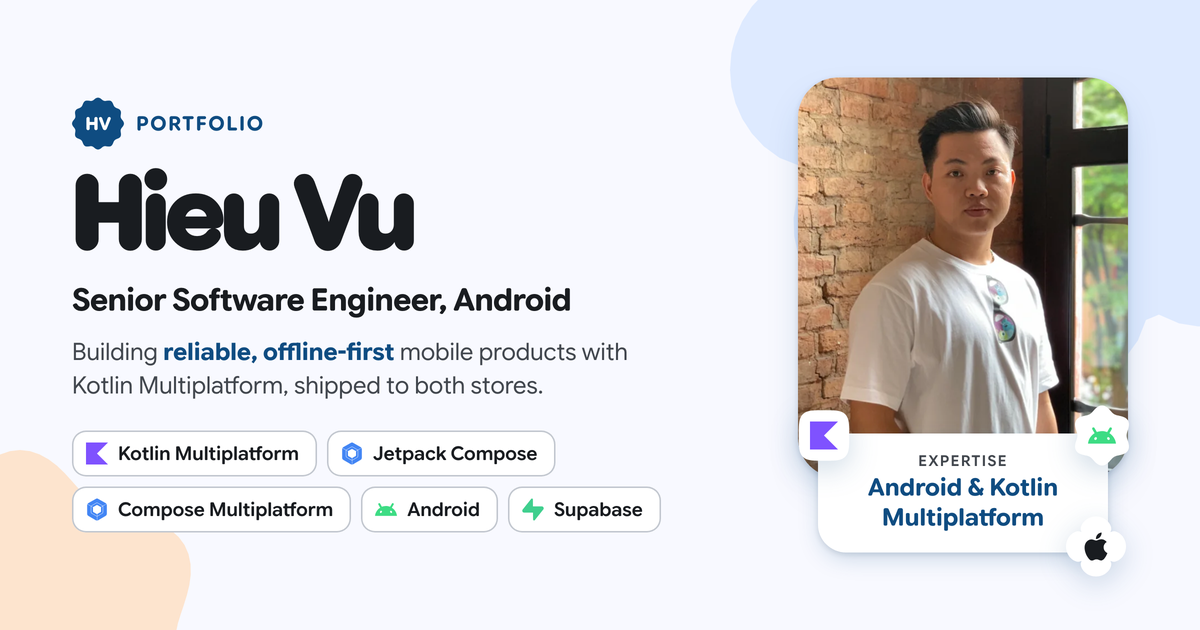
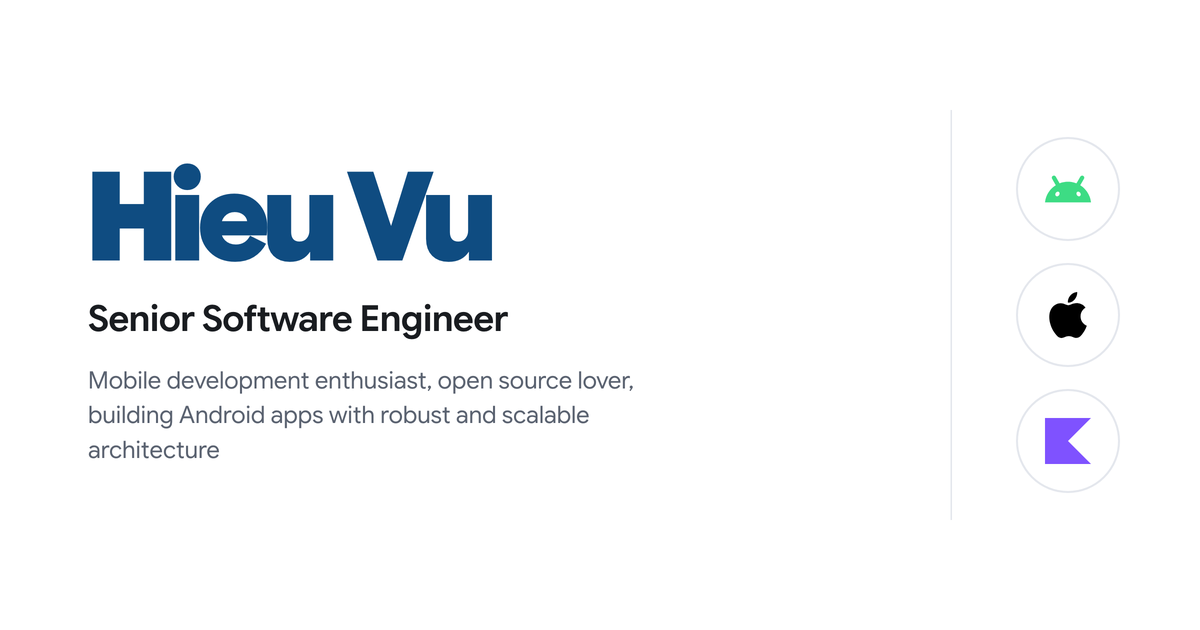
Simplify the social share card
Classy, minimal layout on white: name in Classic Blue, job title and
tagline on the left, Android, Apple and Kotlin marks on the right. No
company, photo or screenshots. Alt text updated and og:image versioned
to v=3 so platforms re-fetch it.

diff --git a/og-card.html b/og-card.html
@@ -1,7 +1,4 @@
-<!DOCTYPE html>
-<html lang="en">
-<head>
-<meta charset="UTF-8">
+<!DOCTYPE html><html><head><meta charset="UTF-8">
 <title>Social preview card</title>
 <!--
   Source for public/assets/img/og-image.png, 1200x630.
@@ -10,175 +7,36 @@
     ~/.claude/skills/social-preview-image/scripts/render.sh \
       -o public/assets/img/og-image.png og-card.html
 
-  Kept in the project root so the relative image paths below resolve.
   Content rule: name, job title and expertise only. No employer or other
-  company names.
-  Tokens mirror src/styles/theme-m3.css (Material 3 Expressive, Classic Blue
-  #0F4C81, light scheme). Shapes are the same polygons as
-  src/components/ui/shapes.ts; brand marks come from brandMarks.ts.
+  company names, no app screenshots. Classic Blue #0F4C81 on white, Google
+  Sans Flex, brand marks from src/components/ui/brandMarks.ts.
 -->
-<link rel="preconnect" href="https://fonts.googleapis.com">
-<link rel="preconnect" href="https://fonts.gstatic.com" crossorigin>
-<link href="https://fonts.googleapis.com/css2?family=Google+Sans+Flex:opsz,wght,ROND@6..144,300..900,0..100&display=swap" rel="stylesheet">
+<link href="https://fonts.googleapis.com/css2?family=Google+Sans+Flex:opsz,wght,ROND@6..144,300..1000,0..100&display=swap" rel="stylesheet">
 <style>
-    :root {
-        --primary: #0f4c81;
-        --on-primary: #ffffff;
-        --primary-container: #d3e4ff;
-        --on-primary-container: #001c38;
-        --secondary-container: #d7e3f7;
-        --on-secondary-container: #101c2b;
-        --tertiary-container: #ffdcbe;
-        --surface: #f8f9ff;
-        --surface-lowest: #ffffff;
-        --on-surface: #191c20;
-        --on-surface-variant: #42474e;
+:root{--p:#0f4c81;--pc:#d3e4ff;--ink:#191c20;--muted:#5a6270;--line:#e4e7ed;--f:'Google Sans Flex',system-ui,sans-serif}
+*{margin:0;padding:0;box-sizing:border-box}
+html,body{width:1200px;height:630px;overflow:hidden}
+body{position:relative;background:#fff;font-family:var(--f);color:var(--ink);-webkit-font-smoothing:antialiased}
+.name{font-weight:800;color:var(--p);letter-spacing:-.035em;line-height:.9;font-variation-settings:'ROND' 0,'opsz' 144}
+.title{font-weight:600;letter-spacing:-.01em;color:var(--ink)}
+.tag{color:var(--muted);font-weight:400;line-height:1.45}
+.mono{display:grid;place-items:center;background:var(--p);color:#fff;font-weight:800;clip-path:polygon(50.00% 0.00%, 52.59% 0.52%, 55.05% 1.91%, 57.33% 3.69%, 59.50% 5.31%, 61.71% 6.30%, 64.12% 6.54%, 66.80% 6.23%, 69.67% 5.83%, 72.49% 5.85%, 75.00% 6.70%, 76.98% 8.45%, 78.42% 10.88%, 79.50% 13.56%, 80.57% 16.04%, 81.99% 18.01%, 83.96% 19.43%, 86.44% 20.50%, 89.12% 21.58%, 91.55% 23.02%, 93.30% 25.00%, 94.15% 27.51%, 94.17% 30.33%, 93.77% 33.20%, 93.46% 35.88%, 93.70% 38.29%, 94.69% 40.50%, 96.31% 42.67%, 98.09% 44.95%, 99.48% 47.41%, 100.00% 50.00%, 99.48% 52.59%, 98.09% 55.05%, 96.31% 57.33%, 94.69% 59.50%, 93.70% 61.71%, 93.46% 64.12%, 93.77% 66.80%, 94.17% 69.67%, 94.15% 72.49%, 93.30% 75.00%, 91.55% 76.98%, 89.12% 78.42%, 86.44% 79.50%, 83.96% 80.57%, 81.99% 81.99%, 80.57% 83.96%, 79.50% 86.44%, 78.42% 89.12%, 76.98% 91.55%, 75.00% 93.30%, 72.49% 94.15%, 69.67% 94.17%, 66.80% 93.77%, 64.12% 93.46%, 61.71% 93.70%, 59.50% 94.69%, 57.33% 96.31%, 55.05% 98.09%, 52.59% 99.48%, 50.00% 100.00%, 47.41% 99.48%, 44.95% 98.09%, 42.67% 96.31%, 40.50% 94.69%, 38.29% 93.70%, 35.88% 93.46%, 33.20% 93.77%, 30.33% 94.17%, 27.51% 94.15%, 25.00% 93.30%, 23.02% 91.55%, 21.58% 89.12%, 20.50% 86.44%, 19.43% 83.96%, 18.01% 81.99%, 16.04% 80.57%, 13.56% 79.50%, 10.88% 78.42%, 8.45% 76.98%, 6.70% 75.00%, 5.85% 72.49%, 5.83% 69.67%, 6.23% 66.80%, 6.54% 64.12%, 6.30% 61.71%, 5.31% 59.50%, 3.69% 57.33%, 1.91% 55.05%, 0.52% 52.59%, 0.00% 50.00%, 0.52% 47.41%, 1.91% 44.95%, 3.69% 42.67%, 5.31% 40.50%, 6.30% 38.29%, 6.54% 35.88%, 6.23% 33.20%, 5.83% 30.33%, 5.85% 27.51%, 6.70% 25.00%, 8.45% 23.02%, 10.88% 21.58%, 13.56% 20.50%, 16.04% 19.43%, 18.01% 18.01%, 19.43% 16.04%, 20.50% 13.56%, 21.58% 10.88%, 23.02% 8.45%, 25.00% 6.70%, 27.51% 5.85%, 30.33% 5.83%, 33.20% 6.23%, 35.88% 6.54%, 38.29% 6.30%, 40.50% 5.31%, 42.67% 3.69%, 44.95% 1.91%, 47.41% 0.52%)}
+svg{display:block}
+.marks{display:flex;align-items:center;gap:26px}
+.marks svg{width:34px;height:34px}
+.marks i{width:1.5px;height:28px;background:var(--line)}
 
-        --font: 'Google Sans Flex', 'Google Sans', system-ui, sans-serif;
-        --w: 1200px;
-        --h: 630px;
-    }
+body{display:flex;align-items:center;padding:0 80px 0 88px}
+.copy{flex:1;padding-right:64px}
+.name{font-size:124px}
+.title{font-size:36px;margin-top:22px}
+.tag{font-size:24px;margin-top:22px;max-width:620px}
+.div{width:1.5px;align-self:stretch;margin:110px 0;background:var(--line)}
+.badges{display:flex;flex-direction:column;gap:22px;padding-left:64px}
+.b{width:104px;height:104px;border-radius:50%;border:2px solid var(--line);display:grid;place-items:center}
+.b svg{width:46px;height:46px}
 
-    * { margin: 0; padding: 0; box-sizing: border-box; }
-    html, body { width: var(--w); height: var(--h); overflow: hidden; }
-
-    body {
-        position: relative;
-        display: flex;
-        align-items: center;
-        gap: 56px;
-        padding: 56px 72px 56px 72px;
-        background: var(--surface);
-        font-family: var(--font);
-        color: var(--on-surface);
-        -webkit-font-smoothing: antialiased;
-    }
-
-    /* Flat M3 shapes, same as the hero backdrop. Bled off the edges is fine
-       here: they're decoration, nothing readable sits on them. */
-    .deco { position: absolute; pointer-events: none; }
-    .deco-a {
-        width: 640px; height: 640px; right: -170px; top: -250px;
-        background: var(--primary-container); opacity: .7;
-        clip-path: polygon(50.00% 0.00%, 52.61% 0.21%, 55.17% 0.85%, 57.62% 1.91%, 59.91% 3.40%, 61.97% 5.32%, 63.73% 7.74%, 64.99% 10.94%, 67.02% 11.78%, 70.17% 10.41%, 73.13% 9.94%, 75.95% 10.04%, 78.62% 10.61%, 81.10% 11.59%, 83.36% 12.95%, 85.36% 14.64%, 87.05% 16.64%, 88.41% 18.90%, 89.39% 21.38%, 89.96% 24.05%, 90.06% 26.87%, 89.59% 29.83%, 88.22% 32.98%, 89.06% 35.01%, 92.26% 36.27%, 94.68% 38.03%, 96.60% 40.09%, 98.09% 42.38%, 99.15% 44.83%, 99.79% 47.39%, 100.00% 50.00%, 99.79% 52.61%, 99.15% 55.17%, 98.09% 57.62%, 96.60% 59.91%, 94.68% 61.97%, 92.26% 63.73%, 89.06% 64.99%, 88.22% 67.02%, 89.59% 70.17%, 90.06% 73.13%, 89.96% 75.95%, 89.39% 78.62%, 88.41% 81.10%, 87.05% 83.36%, 85.36% 85.36%, 83.36% 87.05%, 81.10% 88.41%, 78.62% 89.39%, 75.95% 89.96%, 73.13% 90.06%, 70.17% 89.59%, 67.02% 88.22%, 64.99% 89.06%, 63.73% 92.26%, 61.97% 94.68%, 59.91% 96.60%, 57.62% 98.09%, 55.17% 99.15%, 52.61% 99.79%, 50.00% 100.00%, 47.39% 99.79%, 44.83% 99.15%, 42.38% 98.09%, 40.09% 96.60%, 38.03% 94.68%, 36.27% 92.26%, 35.01% 89.06%, 32.98% 88.22%, 29.83% 89.59%, 26.87% 90.06%, 24.05% 89.96%, 21.38% 89.39%, 18.90% 88.41%, 16.64% 87.05%, 14.64% 85.36%, 12.95% 83.36%, 11.59% 81.10%, 10.61% 78.62%, 10.04% 75.95%, 9.94% 73.13%, 10.41% 70.17%, 11.78% 67.02%, 10.94% 64.99%, 7.74% 63.73%, 5.32% 61.97%, 3.40% 59.91%, 1.91% 57.62%, 0.85% 55.17%, 0.21% 52.61%, 0.00% 50.00%, 0.21% 47.39%, 0.85% 44.83%, 1.91% 42.38%, 3.40% 40.09%, 5.32% 38.03%, 7.74% 36.27%, 10.94% 35.01%, 11.78% 32.98%, 10.41% 29.83%, 9.94% 26.87%, 10.04% 24.05%, 10.61% 21.38%, 11.59% 18.90%, 12.95% 16.64%, 14.64% 14.64%, 16.64% 12.95%, 18.90% 11.59%, 21.38% 10.61%, 24.05% 10.04%, 26.87% 9.94%, 29.83% 10.41%, 32.98% 11.78%, 35.01% 10.94%, 36.27% 7.74%, 38.03% 5.32%, 40.09% 3.40%, 42.38% 1.91%, 44.83% 0.85%, 47.39% 0.21%);
-    }
-    .deco-b {
-        width: 380px; height: 380px; left: -170px; bottom: -200px;
-        background: var(--tertiary-container); opacity: .75;
-        clip-path: polygon(50.00% 0.00%, 52.61% 0.29%, 55.14% 1.14%, 57.53% 2.47%, 59.74% 4.16%, 61.76% 6.09%, 63.61% 8.11%, 65.33% 10.06%, 66.99% 11.83%, 68.67% 13.35%, 70.45% 14.57%, 72.40% 15.50%, 74.56% 16.20%, 76.92% 16.75%, 79.48% 17.26%, 82.14% 17.86%, 84.82% 18.65%, 87.40% 19.71%, 89.75% 21.12%, 91.75% 22.89%, 93.30% 25.00%, 94.35% 27.40%, 94.88% 30.02%, 94.93% 32.75%, 94.57% 35.52%, 93.91% 38.24%, 93.09% 40.84%, 92.26% 43.31%, 91.55% 45.63%, 91.08% 47.85%, 90.91% 50.00%, 91.08% 52.15%, 91.55% 54.37%, 92.26% 56.69%, 93.09% 59.16%, 93.91% 61.76%, 94.57% 64.48%, 94.93% 67.25%, 94.88% 69.98%, 94.35% 72.60%, 93.30% 75.00%, 91.75% 77.11%, 89.75% 78.88%, 87.40% 80.29%, 84.82% 81.35%, 82.14% 82.14%, 79.48% 82.74%, 76.92% 83.25%, 74.56% 83.80%, 72.40% 84.50%, 70.45% 85.43%, 68.67% 86.65%, 66.99% 88.17%, 65.33% 89.94%, 63.61% 91.89%, 61.76% 93.91%, 59.74% 95.84%, 57.53% 97.53%, 55.14% 98.86%, 52.61% 99.71%, 50.00% 100.00%, 47.39% 99.71%, 44.86% 98.86%, 42.47% 97.53%, 40.26% 95.84%, 38.24% 93.91%, 36.39% 91.89%, 34.67% 89.94%, 33.01% 88.17%, 31.33% 86.65%, 29.55% 85.43%, 27.60% 84.50%, 25.44% 83.80%, 23.08% 83.25%, 20.52% 82.74%, 17.86% 82.14%, 15.18% 81.35%, 12.60% 80.29%, 10.25% 78.88%, 8.25% 77.11%, 6.70% 75.00%, 5.65% 72.60%, 5.12% 69.98%, 5.07% 67.25%, 5.43% 64.48%, 6.09% 61.76%, 6.91% 59.16%, 7.74% 56.69%, 8.45% 54.37%, 8.92% 52.15%, 9.09% 50.00%, 8.92% 47.85%, 8.45% 45.63%, 7.74% 43.31%, 6.91% 40.84%, 6.09% 38.24%, 5.43% 35.52%, 5.07% 32.75%, 5.12% 30.02%, 5.65% 27.40%, 6.70% 25.00%, 8.25% 22.89%, 10.25% 21.12%, 12.60% 19.71%, 15.18% 18.65%, 17.86% 17.86%, 20.52% 17.26%, 23.08% 16.75%, 25.44% 16.20%, 27.60% 15.50%, 29.55% 14.57%, 31.33% 13.35%, 33.01% 11.83%, 34.67% 10.06%, 36.39% 8.11%, 38.24% 6.09%, 40.26% 4.16%, 42.47% 2.47%, 44.86% 1.14%, 47.39% 0.29%);
-    }
-
-    /* ---------- left: who and what ---------- */
-    .copy { position: relative; z-index: 1; flex: 1; min-width: 0; }
-
-    .eyebrow {
-        display: flex; align-items: center; gap: 12px;
-        font-weight: 700; font-size: 20px; letter-spacing: .08em;
-        text-transform: uppercase; color: var(--primary);
-        font-variation-settings: 'ROND' 100;
-        margin-bottom: 18px;
-    }
-    .eyebrow .mono {
-        width: 52px; height: 52px; display: grid; place-items: center;
-        background: var(--primary); color: var(--on-primary);
-        clip-path: polygon(50.00% 0.00%, 52.59% 0.52%, 55.05% 1.91%, 57.33% 3.69%, 59.50% 5.31%, 61.71% 6.30%, 64.12% 6.54%, 66.80% 6.23%, 69.67% 5.83%, 72.49% 5.85%, 75.00% 6.70%, 76.98% 8.45%, 78.42% 10.88%, 79.50% 13.56%, 80.57% 16.04%, 81.99% 18.01%, 83.96% 19.43%, 86.44% 20.50%, 89.12% 21.58%, 91.55% 23.02%, 93.30% 25.00%, 94.15% 27.51%, 94.17% 30.33%, 93.77% 33.20%, 93.46% 35.88%, 93.70% 38.29%, 94.69% 40.50%, 96.31% 42.67%, 98.09% 44.95%, 99.48% 47.41%, 100.00% 50.00%, 99.48% 52.59%, 98.09% 55.05%, 96.31% 57.33%, 94.69% 59.50%, 93.70% 61.71%, 93.46% 64.12%, 93.77% 66.80%, 94.17% 69.67%, 94.15% 72.49%, 93.30% 75.00%, 91.55% 76.98%, 89.12% 78.42%, 86.44% 79.50%, 83.96% 80.57%, 81.99% 81.99%, 80.57% 83.96%, 79.50% 86.44%, 78.42% 89.12%, 76.98% 91.55%, 75.00% 93.30%, 72.49% 94.15%, 69.67% 94.17%, 66.80% 93.77%, 64.12% 93.46%, 61.71% 93.70%, 59.50% 94.69%, 57.33% 96.31%, 55.05% 98.09%, 52.59% 99.48%, 50.00% 100.00%, 47.41% 99.48%, 44.95% 98.09%, 42.67% 96.31%, 40.50% 94.69%, 38.29% 93.70%, 35.88% 93.46%, 33.20% 93.77%, 30.33% 94.17%, 27.51% 94.15%, 25.00% 93.30%, 23.02% 91.55%, 21.58% 89.12%, 20.50% 86.44%, 19.43% 83.96%, 18.01% 81.99%, 16.04% 80.57%, 13.56% 79.50%, 10.88% 78.42%, 8.45% 76.98%, 6.70% 75.00%, 5.85% 72.49%, 5.83% 69.67%, 6.23% 66.80%, 6.54% 64.12%, 6.30% 61.71%, 5.31% 59.50%, 3.69% 57.33%, 1.91% 55.05%, 0.52% 52.59%, 0.00% 50.00%, 0.52% 47.41%, 1.91% 44.95%, 3.69% 42.67%, 5.31% 40.50%, 6.30% 38.29%, 6.54% 35.88%, 6.23% 33.20%, 5.83% 30.33%, 5.85% 27.51%, 6.70% 25.00%, 8.45% 23.02%, 10.88% 21.58%, 13.56% 20.50%, 16.04% 19.43%, 18.01% 18.01%, 19.43% 16.04%, 20.50% 13.56%, 21.58% 10.88%, 23.02% 8.45%, 25.00% 6.70%, 27.51% 5.85%, 30.33% 5.83%, 33.20% 6.23%, 35.88% 6.54%, 38.29% 6.30%, 40.50% 5.31%, 42.67% 3.69%, 44.95% 1.91%, 47.41% 0.52%);
-        font-size: 18px; font-weight: 800; letter-spacing: -.02em;
-    }
-
-    h1 {
-        font-weight: 800;
-        font-size: 104px;
-        line-height: .9;
-        letter-spacing: -.03em;
-        font-variation-settings: 'ROND' 100, 'opsz' 144;
-        margin-bottom: 22px;
-    }
-
-    .title {
-        display: inline-flex; align-items: center; gap: 14px;
-        font-weight: 700; font-size: 31px; line-height: 1.1;
-        letter-spacing: -.015em; white-space: nowrap;
-        font-variation-settings: 'ROND' 60;
-        margin-bottom: 18px;
-    }
-
-    .lede {
-        font-size: 24px; line-height: 1.4; color: var(--on-surface-variant);
-        max-width: 620px; margin-bottom: 28px;
-    }
-    .lede strong { color: var(--primary); font-weight: 700; }
-
-    .chips { display: flex; flex-wrap: wrap; gap: 10px; max-width: 660px; }
-    .chip {
-        display: flex; align-items: center; gap: 10px;
-        height: 46px; padding: 0 18px 0 14px;
-        border-radius: 14px;
-        background: var(--surface-lowest);
-        box-shadow: inset 0 0 0 1.5px #c2c7cf;
-        font-weight: 600; font-size: 19px; color: var(--on-surface);
-        font-variation-settings: 'ROND' 40;
-    }
-    .chip svg { width: 22px; height: 22px; flex-shrink: 0; }
-
-    /* ---------- right: portrait + name card ---------- */
-    .art { position: relative; z-index: 1; width: 330px; flex-shrink: 0; }
-    .photo {
-        width: 330px; height: 400px; border-radius: 40px; overflow: hidden;
-        background: #e6e8ee;
-        box-shadow: 0 2px 6px rgba(15,30,55,.14), 0 18px 40px -12px rgba(15,76,129,.28);
-    }
-    .photo img { width: 100%; height: 100%; object-fit: cover; display: block; }
-
-    .card {
-        position: relative;
-        width: 290px; margin: -44px auto 0;
-        padding: 18px 20px 20px; border-radius: 28px;
-        background: var(--surface-lowest); text-align: center;
-        box-shadow: 0 8px 24px -4px rgba(15,76,129,.22), 0 2px 6px rgba(15,30,55,.12);
-    }
-    .card .k { font-weight: 600; font-size: 15px; letter-spacing: .08em; text-transform: uppercase; color: var(--on-surface-variant); }
-    .card .n { font-weight: 700; font-size: 24px; font-variation-settings: 'ROND' 60; color: var(--primary); margin-top: 2px; }
-    .card .r { font-weight: 600; font-size: 18px; color: var(--primary); margin-top: 2px; }
-
-    .tile { position: absolute; width: 60px; height: 60px;
-             filter: drop-shadow(0 8px 14px rgba(15,76,129,.2)); }
-    .tile-shape { width: 100%; height: 100%; display: grid; place-items: center;
-                   background: var(--surface-lowest); }
-    .tile svg { width: 28px; height: 28px; }
-    .t1 { left: -24px; top: -28px; }
-    .t2 { right: -24px; top: -28px; }
-    .t3 { right: -18px; bottom: -24px; }
-</style>
-</head>
-<body>
-
-<div class="deco deco-a"></div>
-<div class="deco deco-b"></div>
-
-<div class="copy">
-    <div class="eyebrow"><div class="mono">HV</div>Portfolio</div>
-    <h1>Hieu Vu</h1>
-    <div class="title">Senior Software Engineer, Android</div>
-    <p class="lede">Building <strong>reliable, offline-first</strong> mobile products with Kotlin Multiplatform, shipped to both stores.</p>
-    <div class="chips">
-        <div class="chip"><svg viewBox="0 0 24 24" fill="#7F52FF" aria-hidden="true"><path d="M24 24H0V0h24L12 12Z"/></svg>Kotlin Multiplatform</div>
-        <div class="chip"><svg viewBox="0 0 24 24" fill="#4285F4" aria-hidden="true"><path d="M12.135.003a2.577 2.577 0 0 0-1.42.344L2.55 5.06a2.577 2.577 0 0 0-.953.967l3.957 2.17a1.765 1.765 0 0 1 .603-.588l4.951-2.86a1.761 1.761 0 0 1 1.76 0l4.951 2.86a1.753 1.753 0 0 1 .526.46l3.921-2.265a2.577 2.577 0 0 0-.816-.744L13.291.347a2.577 2.577 0 0 0-1.152-.34Zm-.145 4.912a1.36 1.36 0 0 0-.68.182L6.36 7.953a1.345 1.345 0 0 0-.454.435l1.92 1.055a1.05 1.05 0 0 1 .31-.275l3.34-1.928a1.054 1.054 0 0 1 1.051 0l3.336 1.928a1.066 1.066 0 0 1 .238.199l.018-.01-.002-.002 1.877-1.08a1.353 1.353 0 0 0-.373-.322l-4.95-2.86a1.357 1.357 0 0 0-.68-.178Zm10.432 1.149-3.92 2.26a1.757 1.757 0 0 1 .2.812v5.715c0 .627-.332 1.21-.88 1.528l-4.95 2.86a1.761 1.761 0 0 1-.64.214v4.524a2.577 2.577 0 0 0 1.059-.313l8.162-4.713a2.577 2.577 0 0 0 1.289-2.23V7.297a2.577 2.577 0 0 0-.318-1.228Zm-20.937.238a2.577 2.577 0 0 0-.227.99v9.43c0 .918.491 1.767 1.293 2.229l8.162 4.713a2.57 2.57 0 0 0 1.225.336v-4.531a1.761 1.761 0 0 1-.833-.235L6.156 16.38a1.765 1.765 0 0 1-.877-1.528V9.136a1.776 1.776 0 0 1 .131-.676Zm16.67 2.223-1.89 1.092a1.058 1.058 0 0 1 .124.46v3.856c0 .378-.2.72-.526.907l-3.336 1.93a1.04 1.04 0 0 1-.295.107v2.17c.152-.027.304-.078.44-.157l4.949-2.859a1.36 1.36 0 0 0 .68-1.18V9.136a1.36 1.36 0 0 0-.147-.607Zm-12.387.13a1.36 1.36 0 0 0-.088.481v5.715a1.36 1.36 0 0 0 .68 1.18l4.95 2.86c.194.112.412.166.627.177v-2.174a1.054 1.054 0 0 1-.46-.123L8.14 14.843a1.054 1.054 0 0 1-.532-.908v-3.853a.99.99 0 0 1 .077-.38l-.034-.013z"/></svg>Jetpack Compose</div>
-        <div class="chip"><svg viewBox="0 0 24 24" fill="#4285F4" aria-hidden="true"><path d="M12.135.003a2.577 2.577 0 0 0-1.42.344L2.55 5.06a2.577 2.577 0 0 0-.953.967l3.957 2.17a1.765 1.765 0 0 1 .603-.588l4.951-2.86a1.761 1.761 0 0 1 1.76 0l4.951 2.86a1.753 1.753 0 0 1 .526.46l3.921-2.265a2.577 2.577 0 0 0-.816-.744L13.291.347a2.577 2.577 0 0 0-1.152-.34Zm-.145 4.912a1.36 1.36 0 0 0-.68.182L6.36 7.953a1.345 1.345 0 0 0-.454.435l1.92 1.055a1.05 1.05 0 0 1 .31-.275l3.34-1.928a1.054 1.054 0 0 1 1.051 0l3.336 1.928a1.066 1.066 0 0 1 .238.199l.018-.01-.002-.002 1.877-1.08a1.353 1.353 0 0 0-.373-.322l-4.95-2.86a1.357 1.357 0 0 0-.68-.178Zm10.432 1.149-3.92 2.26a1.757 1.757 0 0 1 .2.812v5.715c0 .627-.332 1.21-.88 1.528l-4.95 2.86a1.761 1.761 0 0 1-.64.214v4.524a2.577 2.577 0 0 0 1.059-.313l8.162-4.713a2.577 2.577 0 0 0 1.289-2.23V7.297a2.577 2.577 0 0 0-.318-1.228Zm-20.937.238a2.577 2.577 0 0 0-.227.99v9.43c0 .918.491 1.767 1.293 2.229l8.162 4.713a2.57 2.57 0 0 0 1.225.336v-4.531a1.761 1.761 0 0 1-.833-.235L6.156 16.38a1.765 1.765 0 0 1-.877-1.528V9.136a1.776 1.776 0 0 1 .131-.676Zm16.67 2.223-1.89 1.092a1.058 1.058 0 0 1 .124.46v3.856c0 .378-.2.72-.526.907l-3.336 1.93a1.04 1.04 0 0 1-.295.107v2.17c.152-.027.304-.078.44-.157l4.949-2.859a1.36 1.36 0 0 0 .68-1.18V9.136a1.36 1.36 0 0 0-.147-.607Zm-12.387.13a1.36 1.36 0 0 0-.088.481v5.715a1.36 1.36 0 0 0 .68 1.18l4.95 2.86c.194.112.412.166.627.177v-2.174a1.054 1.054 0 0 1-.46-.123L8.14 14.843a1.054 1.054 0 0 1-.532-.908v-3.853a.99.99 0 0 1 .077-.38l-.034-.013z"/></svg>Compose Multiplatform</div>
-        <div class="chip"><svg viewBox="0 0 24 24" fill="#3DDC84" aria-hidden="true"><path d="M18.4395 5.5586c-.675 1.1664-1.352 2.3318-2.0274 3.498-.0366-.0155-.0742-.0286-.1113-.043-1.8249-.6957-3.484-.8-4.42-.787-1.8551.0185-3.3544.4643-4.2597.8203-.084-.1494-1.7526-3.021-2.0215-3.4864a1.1451 1.1451 0 0 0-.1406-.1914c-.3312-.364-.9054-.4859-1.379-.203-.475.282-.7136.9361-.3886 1.5019 1.9466 3.3696-.0966-.2158 1.9473 3.3593.0172.031-.4946.2642-1.3926 1.0177C2.8987 12.176.452 14.772 0 18.9902h24c-.119-1.1108-.3686-2.099-.7461-3.0683-.7438-1.9118-1.8435-3.2928-2.7402-4.1836a12.1048 12.1048 0 0 0-2.1309-1.6875c.6594-1.122 1.312-2.2559 1.9649-3.3848.2077-.3615.1886-.7956-.0079-1.1191a1.1001 1.1001 0 0 0-.8515-.5332c-.5225-.0536-.9392.3128-1.0488.5449zm-.0391 8.461c.3944.5926.324 1.3306-.1563 1.6503-.4799.3197-1.188.0985-1.582-.4941-.3944-.5927-.324-1.3307.1563-1.6504.4727-.315 1.1812-.1086 1.582.4941zM7.207 13.5273c.4803.3197.5506 1.0577.1563 1.6504-.394.5926-1.1038.8138-1.584.4941-.48-.3197-.5503-1.0577-.1563-1.6504.4008-.6021 1.1087-.8106 1.584-.4941z"/></svg>Android</div>
-        <div class="chip"><svg viewBox="0 0 24 24" fill="#3FCF8E" aria-hidden="true"><path d="M11.9 1.036c-.015-.986-1.26-1.41-1.874-.637L.764 12.05C-.33 13.427.65 15.455 2.409 15.455h9.579l.113 7.51c.014.985 1.259 1.408 1.873.636l9.262-11.653c1.093-1.375.113-3.403-1.645-3.403h-9.642z"/></svg>Supabase</div>
-    </div>
-</div>
-
-<div class="art">
-    <div class="photo"><img src="public/assets/img/profile.webp" alt=""></div>
-    <div class="card">
-        <div class="k">Expertise</div>
-        <div class="n">Android &amp; Kotlin Multiplatform</div>
-        <div class="tile t1"><div class="tile-shape" style="clip-path:polygon(50.00% 7.96%, 52.20% 7.96%, 54.42% 7.96%, 56.66% 7.96%, 58.93% 7.98%, 61.25% 8.01%, 63.62% 8.07%, 66.05% 8.18%, 68.54% 8.36%, 71.08% 8.64%, 73.64% 9.05%, 76.21% 9.64%, 78.73% 10.46%, 81.13% 11.55%, 83.37% 12.94%, 85.36% 14.64%, 87.06% 16.63%, 88.45% 18.87%, 89.54% 21.27%, 90.36% 23.79%, 90.95% 26.36%, 91.36% 28.92%, 91.64% 31.46%, 91.82% 33.95%, 91.93% 36.38%, 91.99% 38.75%, 92.02% 41.07%, 92.04% 43.34%, 92.04% 45.58%, 92.04% 47.80%, 92.04% 50.00%, 92.04% 52.20%, 92.04% 54.42%, 92.04% 56.66%, 92.02% 58.93%, 91.99% 61.25%, 91.93% 63.62%, 91.82% 66.05%, 91.64% 68.54%, 91.36% 71.08%, 90.95% 73.64%, 90.36% 76.21%, 89.54% 78.73%, 88.45% 81.13%, 87.06% 83.37%, 85.36% 85.36%, 83.37% 87.06%, 81.13% 88.45%, 78.73% 89.54%, 76.21% 90.36%, 73.64% 90.95%, 71.08% 91.36%, 68.54% 91.64%, 66.05% 91.82%, 63.62% 91.93%, 61.25% 91.99%, 58.93% 92.02%, 56.66% 92.04%, 54.42% 92.04%, 52.20% 92.04%, 50.00% 92.04%, 47.80% 92.04%, 45.58% 92.04%, 43.34% 92.04%, 41.07% 92.02%, 38.75% 91.99%, 36.38% 91.93%, 33.95% 91.82%, 31.46% 91.64%, 28.92% 91.36%, 26.36% 90.95%, 23.79% 90.36%, 21.27% 89.54%, 18.87% 88.45%, 16.63% 87.06%, 14.64% 85.36%, 12.94% 83.37%, 11.55% 81.13%, 10.46% 78.73%, 9.64% 76.21%, 9.05% 73.64%, 8.64% 71.08%, 8.36% 68.54%, 8.18% 66.05%, 8.07% 63.62%, 8.01% 61.25%, 7.98% 58.93%, 7.96% 56.66%, 7.96% 54.42%, 7.96% 52.20%, 7.96% 50.00%, 7.96% 47.80%, 7.96% 45.58%, 7.96% 43.34%, 7.98% 41.07%, 8.01% 38.75%, 8.07% 36.38%, 8.18% 33.95%, 8.36% 31.46%, 8.64% 28.92%, 9.05% 26.36%, 9.64% 23.79%, 10.46% 21.27%, 11.55% 18.87%, 12.94% 16.63%, 14.64% 14.64%, 16.63% 12.94%, 18.87% 11.55%, 21.27% 10.46%, 23.79% 9.64%, 26.36% 9.05%, 28.92% 8.64%, 31.46% 8.36%, 33.95% 8.18%, 36.38% 8.07%, 38.75% 8.01%, 41.07% 7.98%, 43.34% 7.96%, 45.58% 7.96%, 47.80% 7.96%)"><svg viewBox="0 0 24 24" fill="#7F52FF" aria-hidden="true"><path d="M24 24H0V0h24L12 12Z"/></svg></div></div>
-        <div class="tile t2"><div class="tile-shape" style="clip-path:polygon(50.00% 0.00%, 52.61% 0.29%, 55.14% 1.14%, 57.53% 2.47%, 59.74% 4.16%, 61.76% 6.09%, 63.61% 8.11%, 65.33% 10.06%, 66.99% 11.83%, 68.67% 13.35%, 70.45% 14.57%, 72.40% 15.50%, 74.56% 16.20%, 76.92% 16.75%, 79.48% 17.26%, 82.14% 17.86%, 84.82% 18.65%, 87.40% 19.71%, 89.75% 21.12%, 91.75% 22.89%, 93.30% 25.00%, 94.35% 27.40%, 94.88% 30.02%, 94.93% 32.75%, 94.57% 35.52%, 93.91% 38.24%, 93.09% 40.84%, 92.26% 43.31%, 91.55% 45.63%, 91.08% 47.85%, 90.91% 50.00%, 91.08% 52.15%, 91.55% 54.37%, 92.26% 56.69%, 93.09% 59.16%, 93.91% 61.76%, 94.57% 64.48%, 94.93% 67.25%, 94.88% 69.98%, 94.35% 72.60%, 93.30% 75.00%, 91.75% 77.11%, 89.75% 78.88%, 87.40% 80.29%, 84.82% 81.35%, 82.14% 82.14%, 79.48% 82.74%, 76.92% 83.25%, 74.56% 83.80%, 72.40% 84.50%, 70.45% 85.43%, 68.67% 86.65%, 66.99% 88.17%, 65.33% 89.94%, 63.61% 91.89%, 61.76% 93.91%, 59.74% 95.84%, 57.53% 97.53%, 55.14% 98.86%, 52.61% 99.71%, 50.00% 100.00%, 47.39% 99.71%, 44.86% 98.86%, 42.47% 97.53%, 40.26% 95.84%, 38.24% 93.91%, 36.39% 91.89%, 34.67% 89.94%, 33.01% 88.17%, 31.33% 86.65%, 29.55% 85.43%, 27.60% 84.50%, 25.44% 83.80%, 23.08% 83.25%, 20.52% 82.74%, 17.86% 82.14%, 15.18% 81.35%, 12.60% 80.29%, 10.25% 78.88%, 8.25% 77.11%, 6.70% 75.00%, 5.65% 72.60%, 5.12% 69.98%, 5.07% 67.25%, 5.43% 64.48%, 6.09% 61.76%, 6.91% 59.16%, 7.74% 56.69%, 8.45% 54.37%, 8.92% 52.15%, 9.09% 50.00%, 8.92% 47.85%, 8.45% 45.63%, 7.74% 43.31%, 6.91% 40.84%, 6.09% 38.24%, 5.43% 35.52%, 5.07% 32.75%, 5.12% 30.02%, 5.65% 27.40%, 6.70% 25.00%, 8.25% 22.89%, 10.25% 21.12%, 12.60% 19.71%, 15.18% 18.65%, 17.86% 17.86%, 20.52% 17.26%, 23.08% 16.75%, 25.44% 16.20%, 27.60% 15.50%, 29.55% 14.57%, 31.33% 13.35%, 33.01% 11.83%, 34.67% 10.06%, 36.39% 8.11%, 38.24% 6.09%, 40.26% 4.16%, 42.47% 2.47%, 44.86% 1.14%, 47.39% 0.29%)"><svg viewBox="0 0 24 24" fill="#3DDC84" aria-hidden="true"><path d="M18.4395 5.5586c-.675 1.1664-1.352 2.3318-2.0274 3.498-.0366-.0155-.0742-.0286-.1113-.043-1.8249-.6957-3.484-.8-4.42-.787-1.8551.0185-3.3544.4643-4.2597.8203-.084-.1494-1.7526-3.021-2.0215-3.4864a1.1451 1.1451 0 0 0-.1406-.1914c-.3312-.364-.9054-.4859-1.379-.203-.475.282-.7136.9361-.3886 1.5019 1.9466 3.3696-.0966-.2158 1.9473 3.3593.0172.031-.4946.2642-1.3926 1.0177C2.8987 12.176.452 14.772 0 18.9902h24c-.119-1.1108-.3686-2.099-.7461-3.0683-.7438-1.9118-1.8435-3.2928-2.7402-4.1836a12.1048 12.1048 0 0 0-2.1309-1.6875c.6594-1.122 1.312-2.2559 1.9649-3.3848.2077-.3615.1886-.7956-.0079-1.1191a1.1001 1.1001 0 0 0-.8515-.5332c-.5225-.0536-.9392.3128-1.0488.5449zm-.0391 8.461c.3944.5926.324 1.3306-.1563 1.6503-.4799.3197-1.188.0985-1.582-.4941-.3944-.5927-.324-1.3307.1563-1.6504.4727-.315 1.1812-.1086 1.582.4941zM7.207 13.5273c.4803.3197.5506 1.0577.1563 1.6504-.394.5926-1.1038.8138-1.584.4941-.48-.3197-.5503-1.0577-.1563-1.6504.4008-.6021 1.1087-.8106 1.584-.4941z"/></svg></div></div>
-        <div class="tile t3"><div class="tile-shape" style="clip-path:polygon(50.00% 0.00%, 52.61% 0.12%, 55.20% 0.48%, 57.75% 1.08%, 60.22% 1.92%, 62.60% 2.98%, 64.86% 4.26%, 66.98% 5.76%, 68.94% 7.45%, 70.72% 9.34%, 72.28% 11.41%, 73.60% 13.66%, 74.63% 16.10%, 75.32% 18.73%, 75.51% 21.67%, 74.04% 25.96%, 78.33% 24.49%, 81.27% 24.68%, 83.90% 25.37%, 86.34% 26.40%, 88.59% 27.72%, 90.66% 29.28%, 92.55% 31.06%, 94.24% 33.02%, 95.74% 35.14%, 97.02% 37.40%, 98.08% 39.78%, 98.92% 42.25%, 99.52% 44.80%, 99.88% 47.39%, 100.00% 50.00%, 99.88% 52.61%, 99.52% 55.20%, 98.92% 57.75%, 98.08% 60.22%, 97.02% 62.60%, 95.74% 64.86%, 94.24% 66.98%, 92.55% 68.94%, 90.66% 70.72%, 88.59% 72.28%, 86.34% 73.60%, 83.90% 74.63%, 81.27% 75.32%, 78.33% 75.51%, 74.04% 74.04%, 75.51% 78.33%, 75.32% 81.27%, 74.63% 83.90%, 73.60% 86.34%, 72.28% 88.59%, 70.72% 90.66%, 68.94% 92.55%, 66.98% 94.24%, 64.86% 95.74%, 62.60% 97.02%, 60.22% 98.08%, 57.75% 98.92%, 55.20% 99.52%, 52.61% 99.88%, 50.00% 100.00%, 47.39% 99.88%, 44.80% 99.52%, 42.25% 98.92%, 39.78% 98.08%, 37.40% 97.02%, 35.14% 95.74%, 33.02% 94.24%, 31.06% 92.55%, 29.28% 90.66%, 27.72% 88.59%, 26.40% 86.34%, 25.37% 83.90%, 24.68% 81.27%, 24.49% 78.33%, 25.96% 74.04%, 21.67% 75.51%, 18.73% 75.32%, 16.10% 74.63%, 13.66% 73.60%, 11.41% 72.28%, 9.34% 70.72%, 7.45% 68.94%, 5.76% 66.98%, 4.26% 64.86%, 2.98% 62.60%, 1.92% 60.22%, 1.08% 57.75%, 0.48% 55.20%, 0.12% 52.61%, 0.00% 50.00%, 0.12% 47.39%, 0.48% 44.80%, 1.08% 42.25%, 1.92% 39.78%, 2.98% 37.40%, 4.26% 35.14%, 5.76% 33.02%, 7.45% 31.06%, 9.34% 29.28%, 11.41% 27.72%, 13.66% 26.40%, 16.10% 25.37%, 18.73% 24.68%, 21.67% 24.49%, 25.96% 25.96%, 24.49% 21.67%, 24.68% 18.73%, 25.37% 16.10%, 26.40% 13.66%, 27.72% 11.41%, 29.28% 9.34%, 31.06% 7.45%, 33.02% 5.76%, 35.14% 4.26%, 37.40% 2.98%, 39.78% 1.92%, 42.25% 1.08%, 44.80% 0.48%, 47.39% 0.12%)"><svg viewBox="0 0 24 24" fill="#191c20" aria-hidden="true"><path d="M12.152 6.896c-.948 0-2.415-1.078-3.96-1.04-2.04.027-3.91 1.183-4.961 3.014-2.117 3.675-.546 9.103 1.519 12.09 1.013 1.454 2.208 3.09 3.792 3.039 1.52-.065 2.09-.987 3.935-.987 1.831 0 2.35.987 3.96.948 1.637-.026 2.676-1.48 3.676-2.948 1.156-1.688 1.636-3.325 1.662-3.415-.039-.013-3.182-1.221-3.22-4.857-.026-3.04 2.48-4.494 2.597-4.559-1.429-2.09-3.623-2.324-4.39-2.376-2-.156-3.675 1.09-4.61 1.09zM15.53 3.83c.843-1.012 1.4-2.427 1.245-3.83-1.207.052-2.662.805-3.532 1.818-.78.896-1.454 2.338-1.273 3.714 1.338.104 2.715-.688 3.559-1.701"/></svg></div></div>
-    </div>
-</div>
-
-</body>
-</html>
+</style></head><body>
+<div class="copy"><div class="name">Hieu Vu</div><div class="title">Senior Software Engineer</div><div class="tag">Mobile development enthusiast, open source lover, building Android apps with robust and scalable architecture</div></div>
+<div class="div"></div>
+<div class="badges"><div class="b"><svg viewBox="0 0 24 24" fill="#3DDC84" aria-hidden="true"><path d="M18.4395 5.5586c-.675 1.1664-1.352 2.3318-2.0274 3.498-.0366-.0155-.0742-.0286-.1113-.043-1.8249-.6957-3.484-.8-4.42-.787-1.8551.0185-3.3544.4643-4.2597.8203-.084-.1494-1.7526-3.021-2.0215-3.4864a1.1451 1.1451 0 0 0-.1406-.1914c-.3312-.364-.9054-.4859-1.379-.203-.475.282-.7136.9361-.3886 1.5019 1.9466 3.3696-.0966-.2158 1.9473 3.3593.0172.031-.4946.2642-1.3926 1.0177C2.8987 12.176.452 14.772 0 18.9902h24c-.119-1.1108-.3686-2.099-.7461-3.0683-.7438-1.9118-1.8435-3.2928-2.7402-4.1836a12.1048 12.1048 0 0 0-2.1309-1.6875c.6594-1.122 1.312-2.2559 1.9649-3.3848.2077-.3615.1886-.7956-.0079-1.1191a1.1001 1.1001 0 0 0-.8515-.5332c-.5225-.0536-.9392.3128-1.0488.5449zm-.0391 8.461c.3944.5926.324 1.3306-.1563 1.6503-.4799.3197-1.188.0985-1.582-.4941-.3944-.5927-.324-1.3307.1563-1.6504.4727-.315 1.1812-.1086 1.582.4941zM7.207 13.5273c.4803.3197.5506 1.0577.1563 1.6504-.394.5926-1.1038.8138-1.584.4941-.48-.3197-.5503-1.0577-.1563-1.6504.4008-.6021 1.1087-.8106 1.584-.4941z"/></svg></div><div class="b"><svg viewBox="0 0 24 24" fill="#000" aria-hidden="true"><path d="M12.152 6.896c-.948 0-2.415-1.078-3.96-1.04-2.04.027-3.91 1.183-4.961 3.014-2.117 3.675-.546 9.103 1.519 12.09 1.013 1.454 2.208 3.09 3.792 3.039 1.52-.065 2.09-.987 3.935-.987 1.831 0 2.35.987 3.96.948 1.637-.026 2.676-1.48 3.676-2.948 1.156-1.688 1.636-3.325 1.662-3.415-.039-.013-3.182-1.221-3.22-4.857-.026-3.04 2.48-4.494 2.597-4.559-1.429-2.09-3.623-2.324-4.39-2.376-2-.156-3.675 1.09-4.61 1.09zM15.53 3.83c.843-1.012 1.4-2.427 1.245-3.83-1.207.052-2.662.805-3.532 1.818-.78.896-1.454 2.338-1.273 3.714 1.338.104 2.715-.688 3.559-1.701"/></svg></div><div class="b"><svg viewBox="0 0 24 24" fill="#7F52FF" aria-hidden="true"><path d="M24 24H0V0h24L12 12Z"/></svg></div></div></body></html>

diff --git a/index.html b/index.html
@@ -31,14 +31,14 @@
       property="og:description"
       content="Reliable, offline-first mobile products. Architected, built and shipped to the Play Store and App Store."
     />
-    <meta property="og:image" content="https://hieuwu.github.io/assets/img/og-image.png?v=2" />
-    <meta property="og:image:secure_url" content="https://hieuwu.github.io/assets/img/og-image.png?v=2" />
+    <meta property="og:image" content="https://hieuwu.github.io/assets/img/og-image.png?v=3" />
+    <meta property="og:image:secure_url" content="https://hieuwu.github.io/assets/img/og-image.png?v=3" />
     <meta property="og:image:type" content="image/png" />
     <meta property="og:image:width" content="1200" />
     <meta property="og:image:height" content="630" />
     <meta
       property="og:image:alt"
-      content="Hieu Vu, Senior Software Engineer, Android. Expertise in Android and Kotlin Multiplatform: Kotlin Multiplatform, Jetpack Compose, Compose Multiplatform, Android and Supabase. Portrait on the right."
+      content="Hieu Vu, Senior Software Engineer. Mobile development enthusiast, open source lover, building Android apps with robust and scalable architecture. Android, Apple and Kotlin logos."
     />
 
     <meta name="twitter:card" content="summary_large_image" />
@@ -52,10 +52,10 @@
       name="twitter:description"
       content="Reliable, offline-first mobile products. Architected, built and shipped to the Play Store and App Store."
     />
-    <meta name="twitter:image" content="https://hieuwu.github.io/assets/img/og-image.png?v=2" />
+    <meta name="twitter:image" content="https://hieuwu.github.io/assets/img/og-image.png?v=3" />
     <meta
       name="twitter:image:alt"
-      content="Hieu Vu, Senior Software Engineer, Android. Expertise in Android and Kotlin Multiplatform."
+      content="Hieu Vu, Senior Software Engineer. Mobile development enthusiast, open source lover, building Android apps with robust and scalable architecture. Android, Apple and Kotlin logos."
     />
 
     <link rel="preconnect" href="https://fonts.googleapis.com" />
